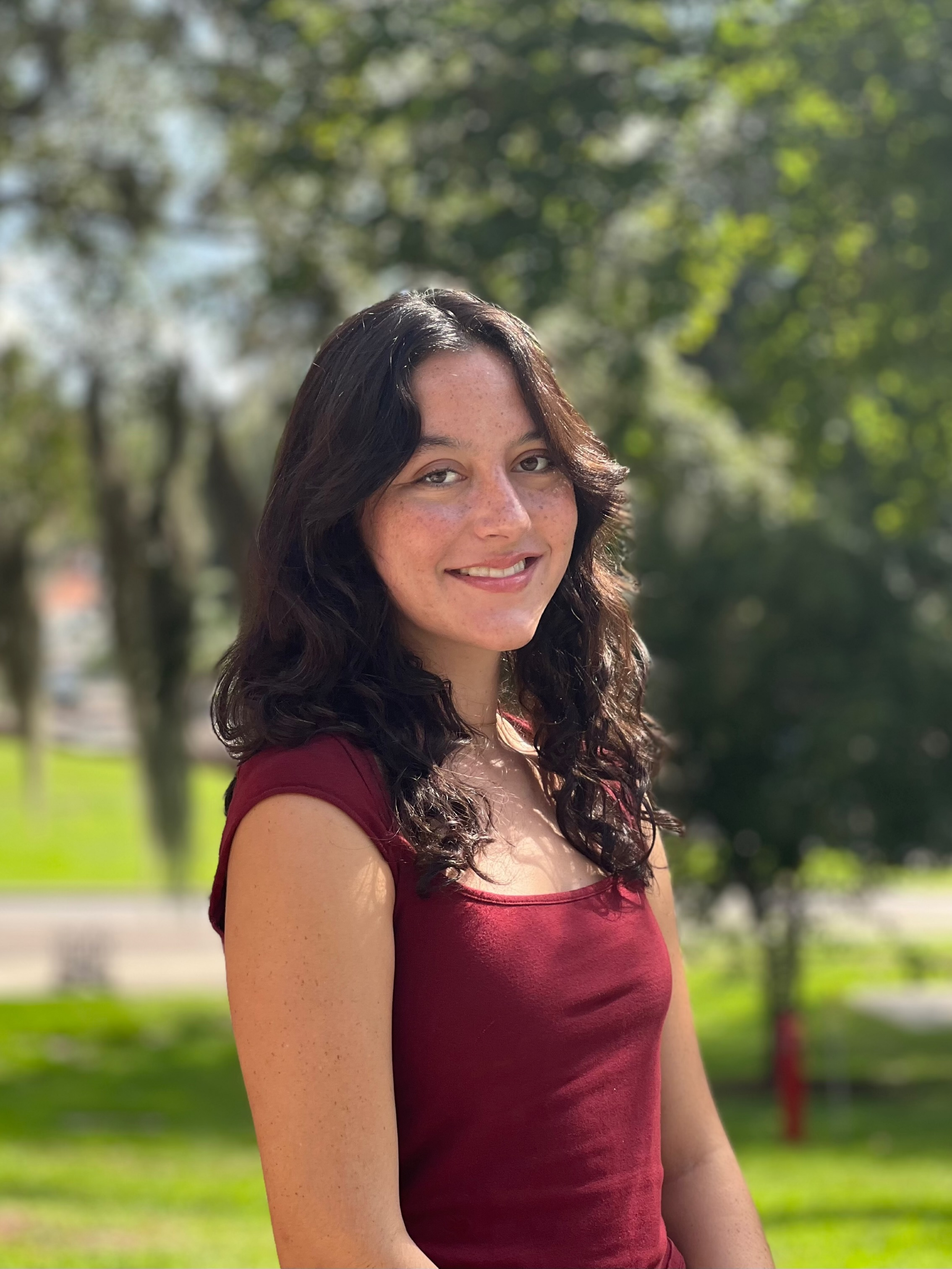
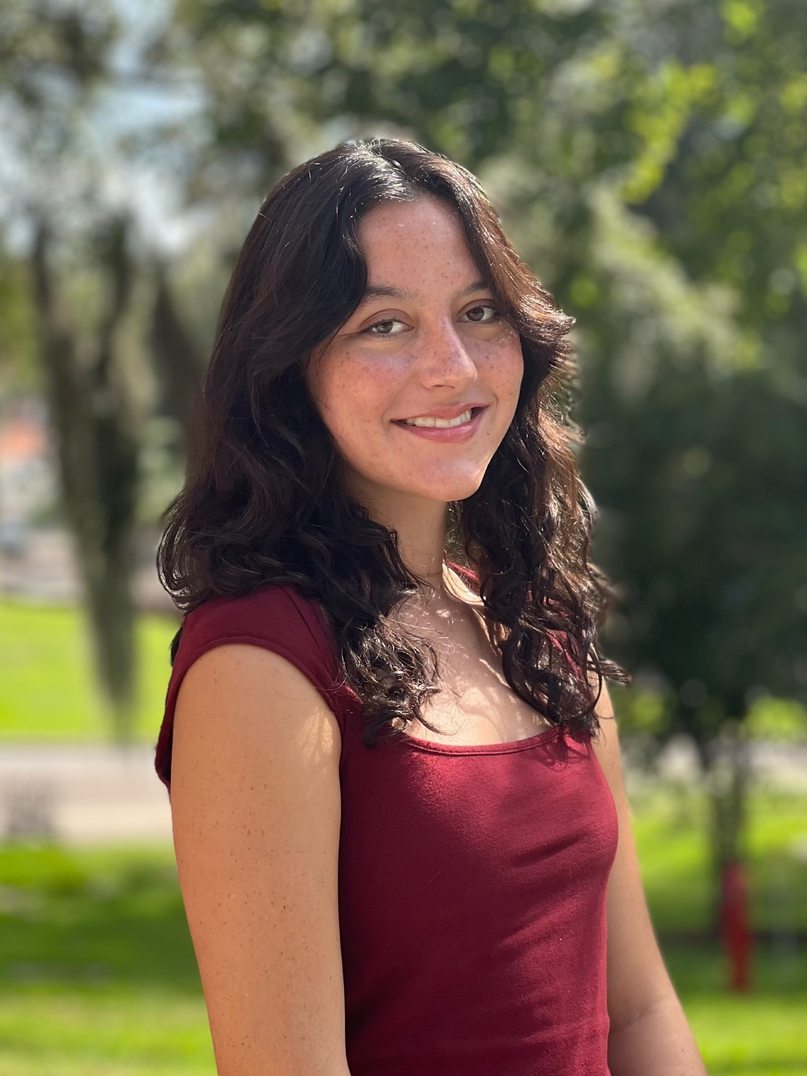
style: update images

diff --git a/_pages/profiles.md b/_pages/profiles.md
@@ -10,7 +10,7 @@ profiles:
   # if you want to include more than one profile, just replicate the following block
   # and create one content file for each profile inside _pages/
   - align: right
-    image: prof_pic.jpg
+    image: Coles_headshot.jpeg
     content: about_nicholas.md
     image_circular: false # crops the image to make it circular
     more_info: >
@@ -40,7 +40,7 @@ profiles:
     more_info: >
       <p><strong>Abhay Alaukik</strong><br>Post-Doc Researcher</p>
   - align: left
-    image: gabrielle_headshot.jpeg
+    image: Gabrielle_headshot.jpeg
     content: about_gabby.md
     image_circular: false # crops the image to make it circular
     more_info: >
